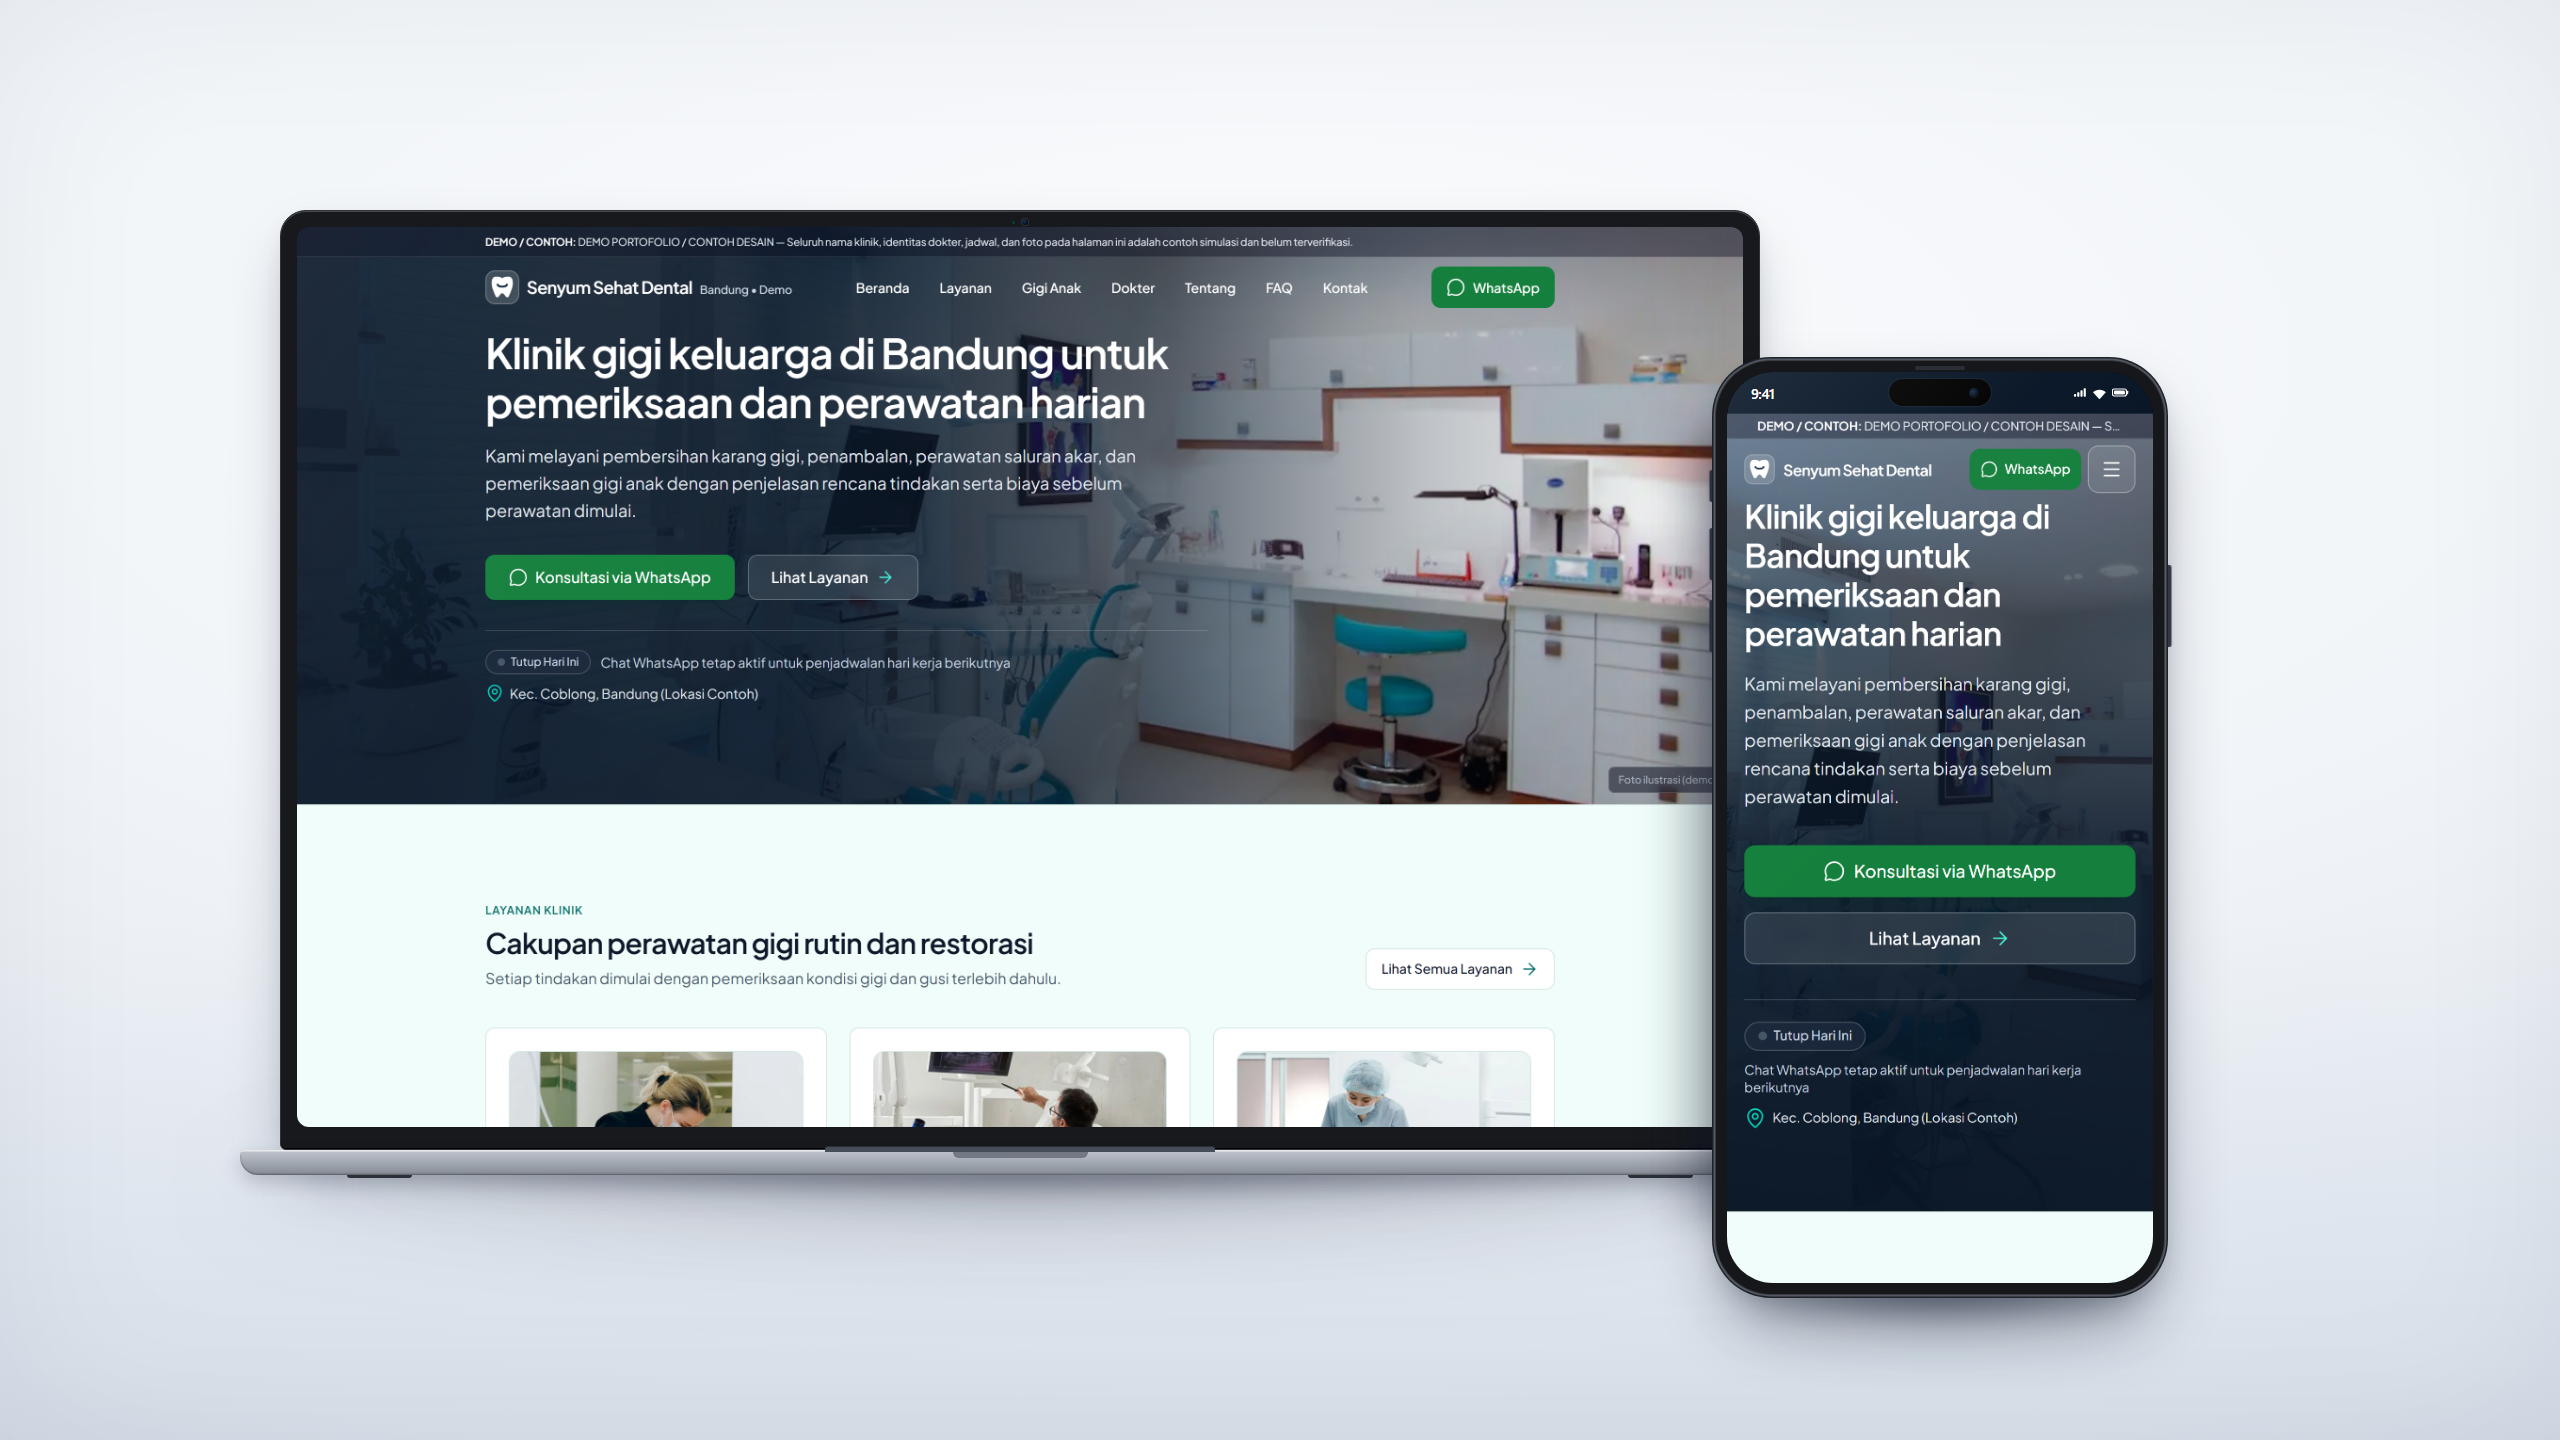
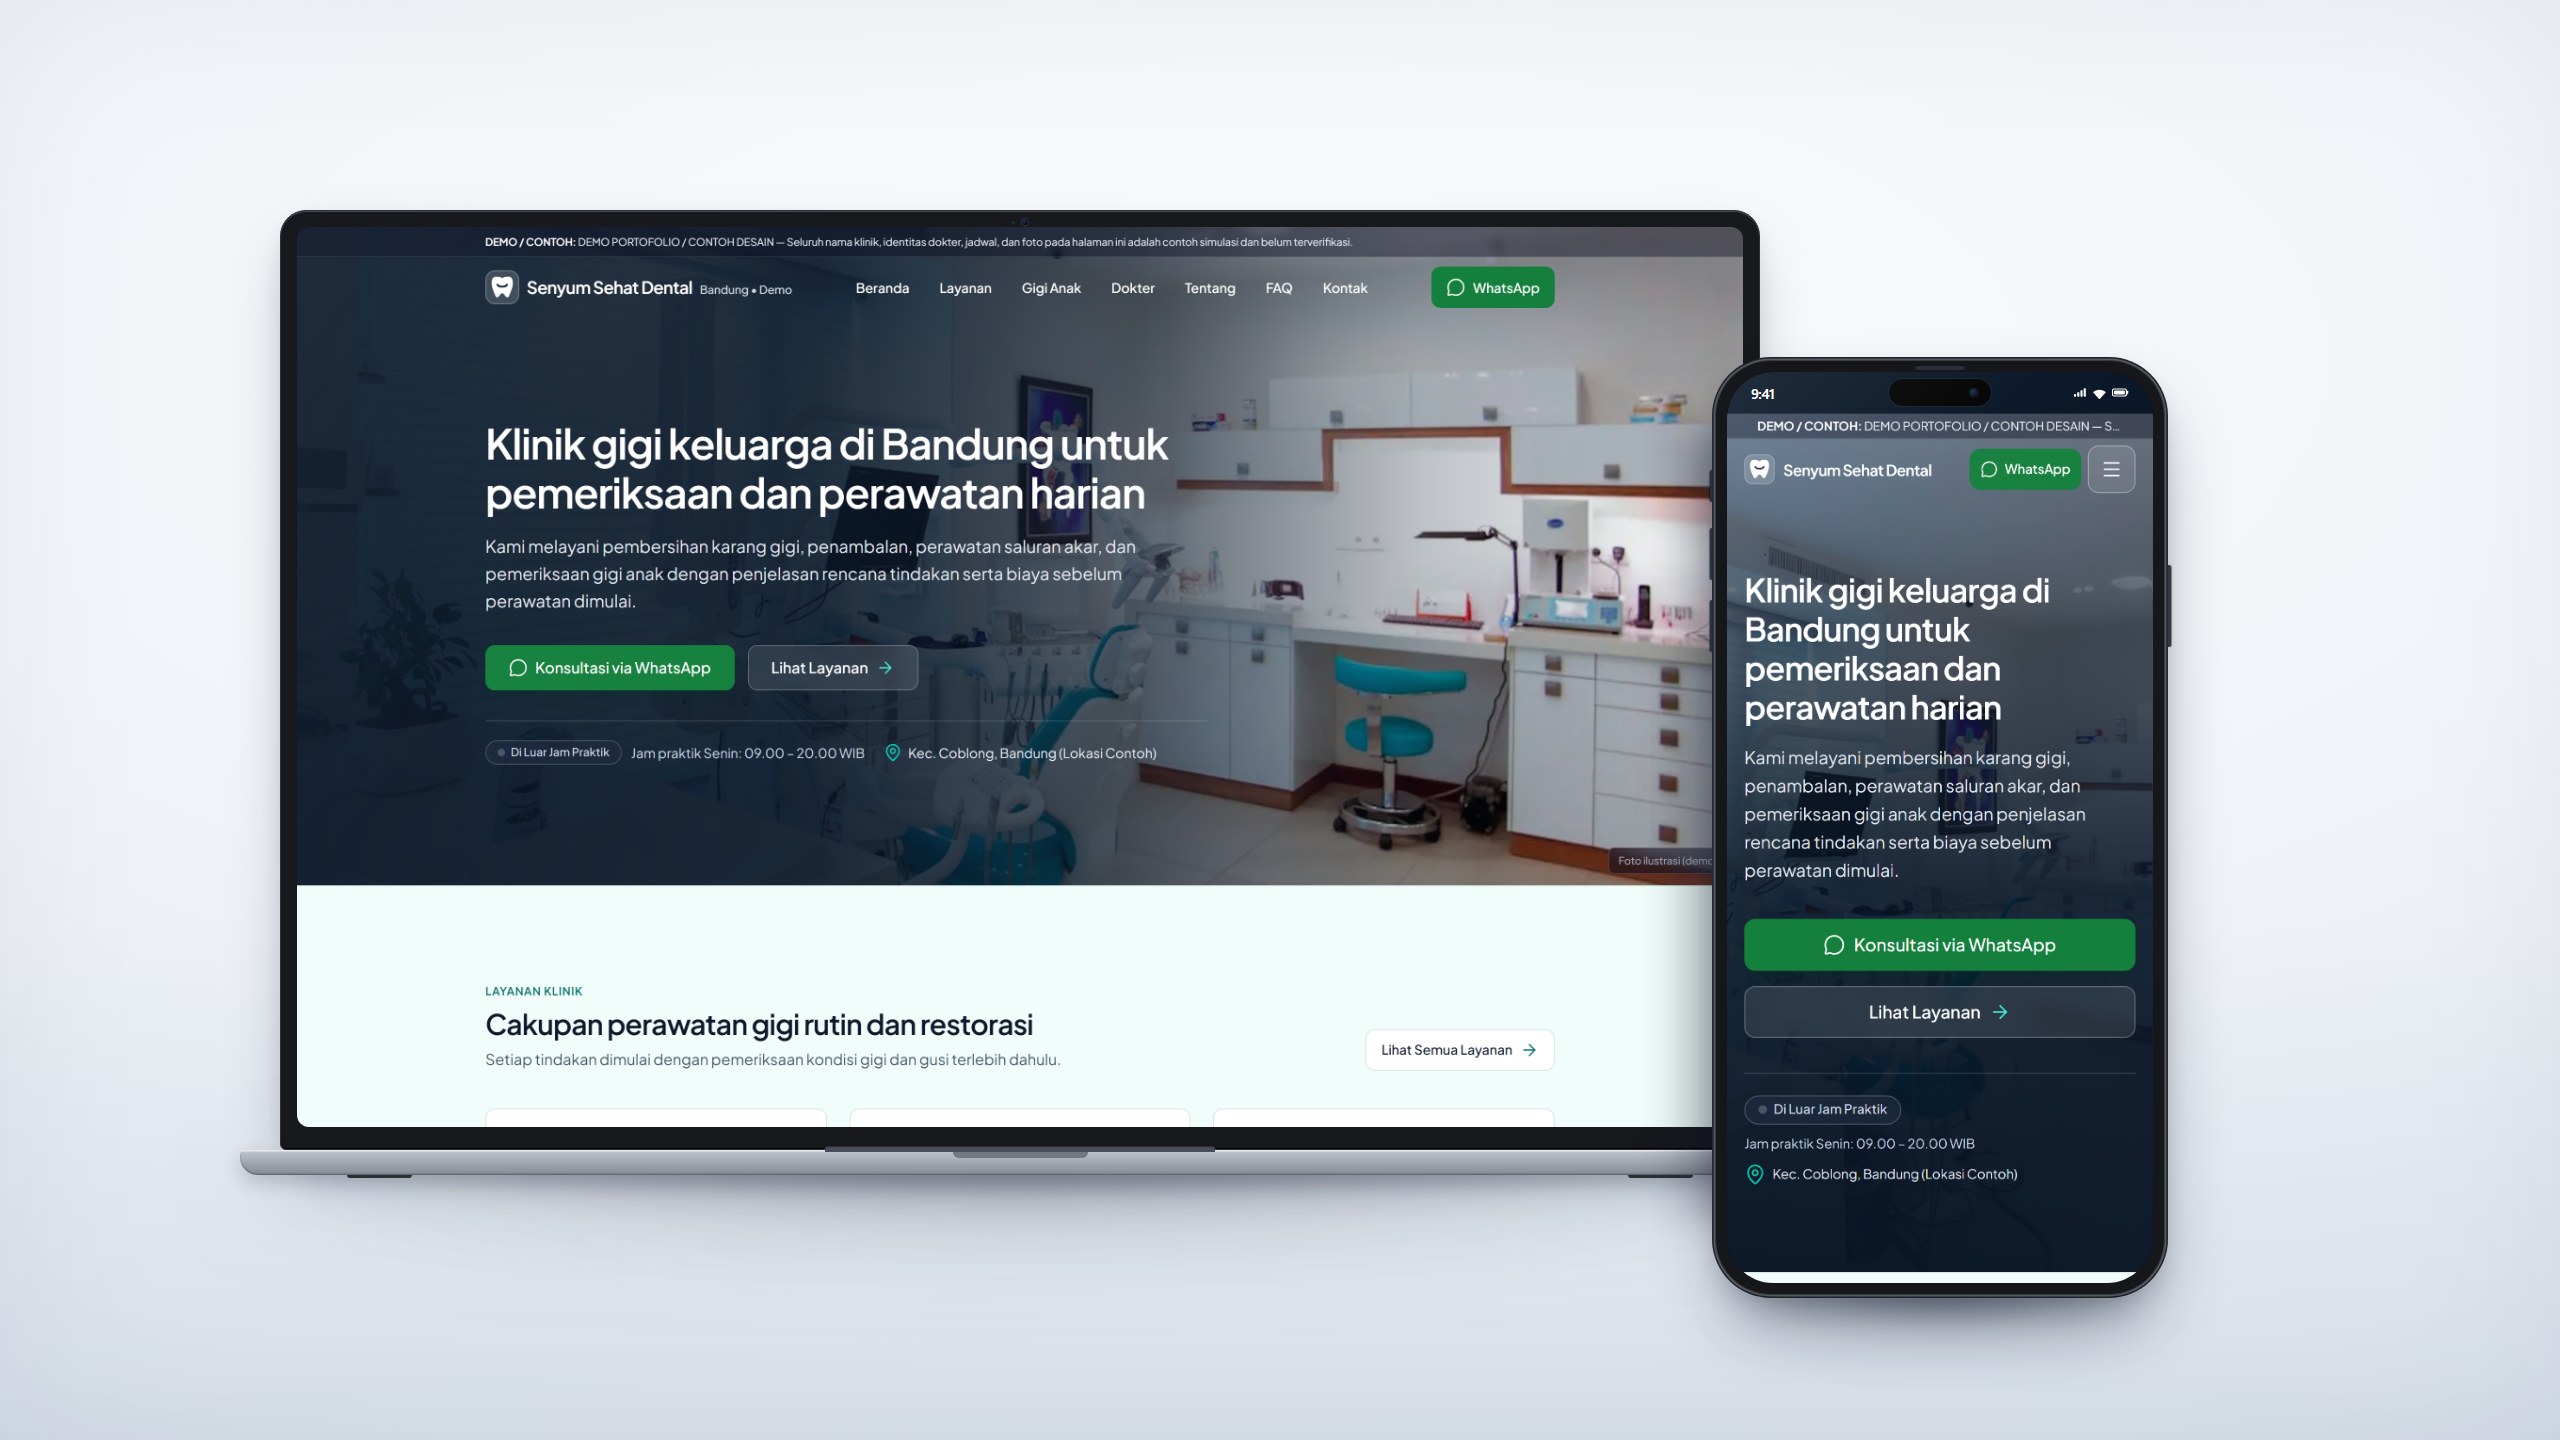
fix: sesuaikan spacing vertikal dan padding-top section Hero

Changed region(s): [[0.0938, 0.2188, 0.8438, 0.9062], [0.5625, 0.6562, 0.5938, 0.6875]]

diff --git a/src/components/sections/Hero.tsx b/src/components/sections/Hero.tsx
@@ -13,7 +13,7 @@ export function Hero() {
   return (
     <section
       aria-labelledby="hero-heading"
-      className="relative overflow-hidden bg-[#0A192F] py-[76px] lg:py-[108px]"
+      className="relative overflow-hidden bg-[#0A192F] pt-36 pb-20 sm:pt-44 sm:pb-24 lg:pt-[204px] lg:pb-32"
     >
       {/* Background Image: Full-bleed cover */}
       <div className="absolute inset-0 z-0">
